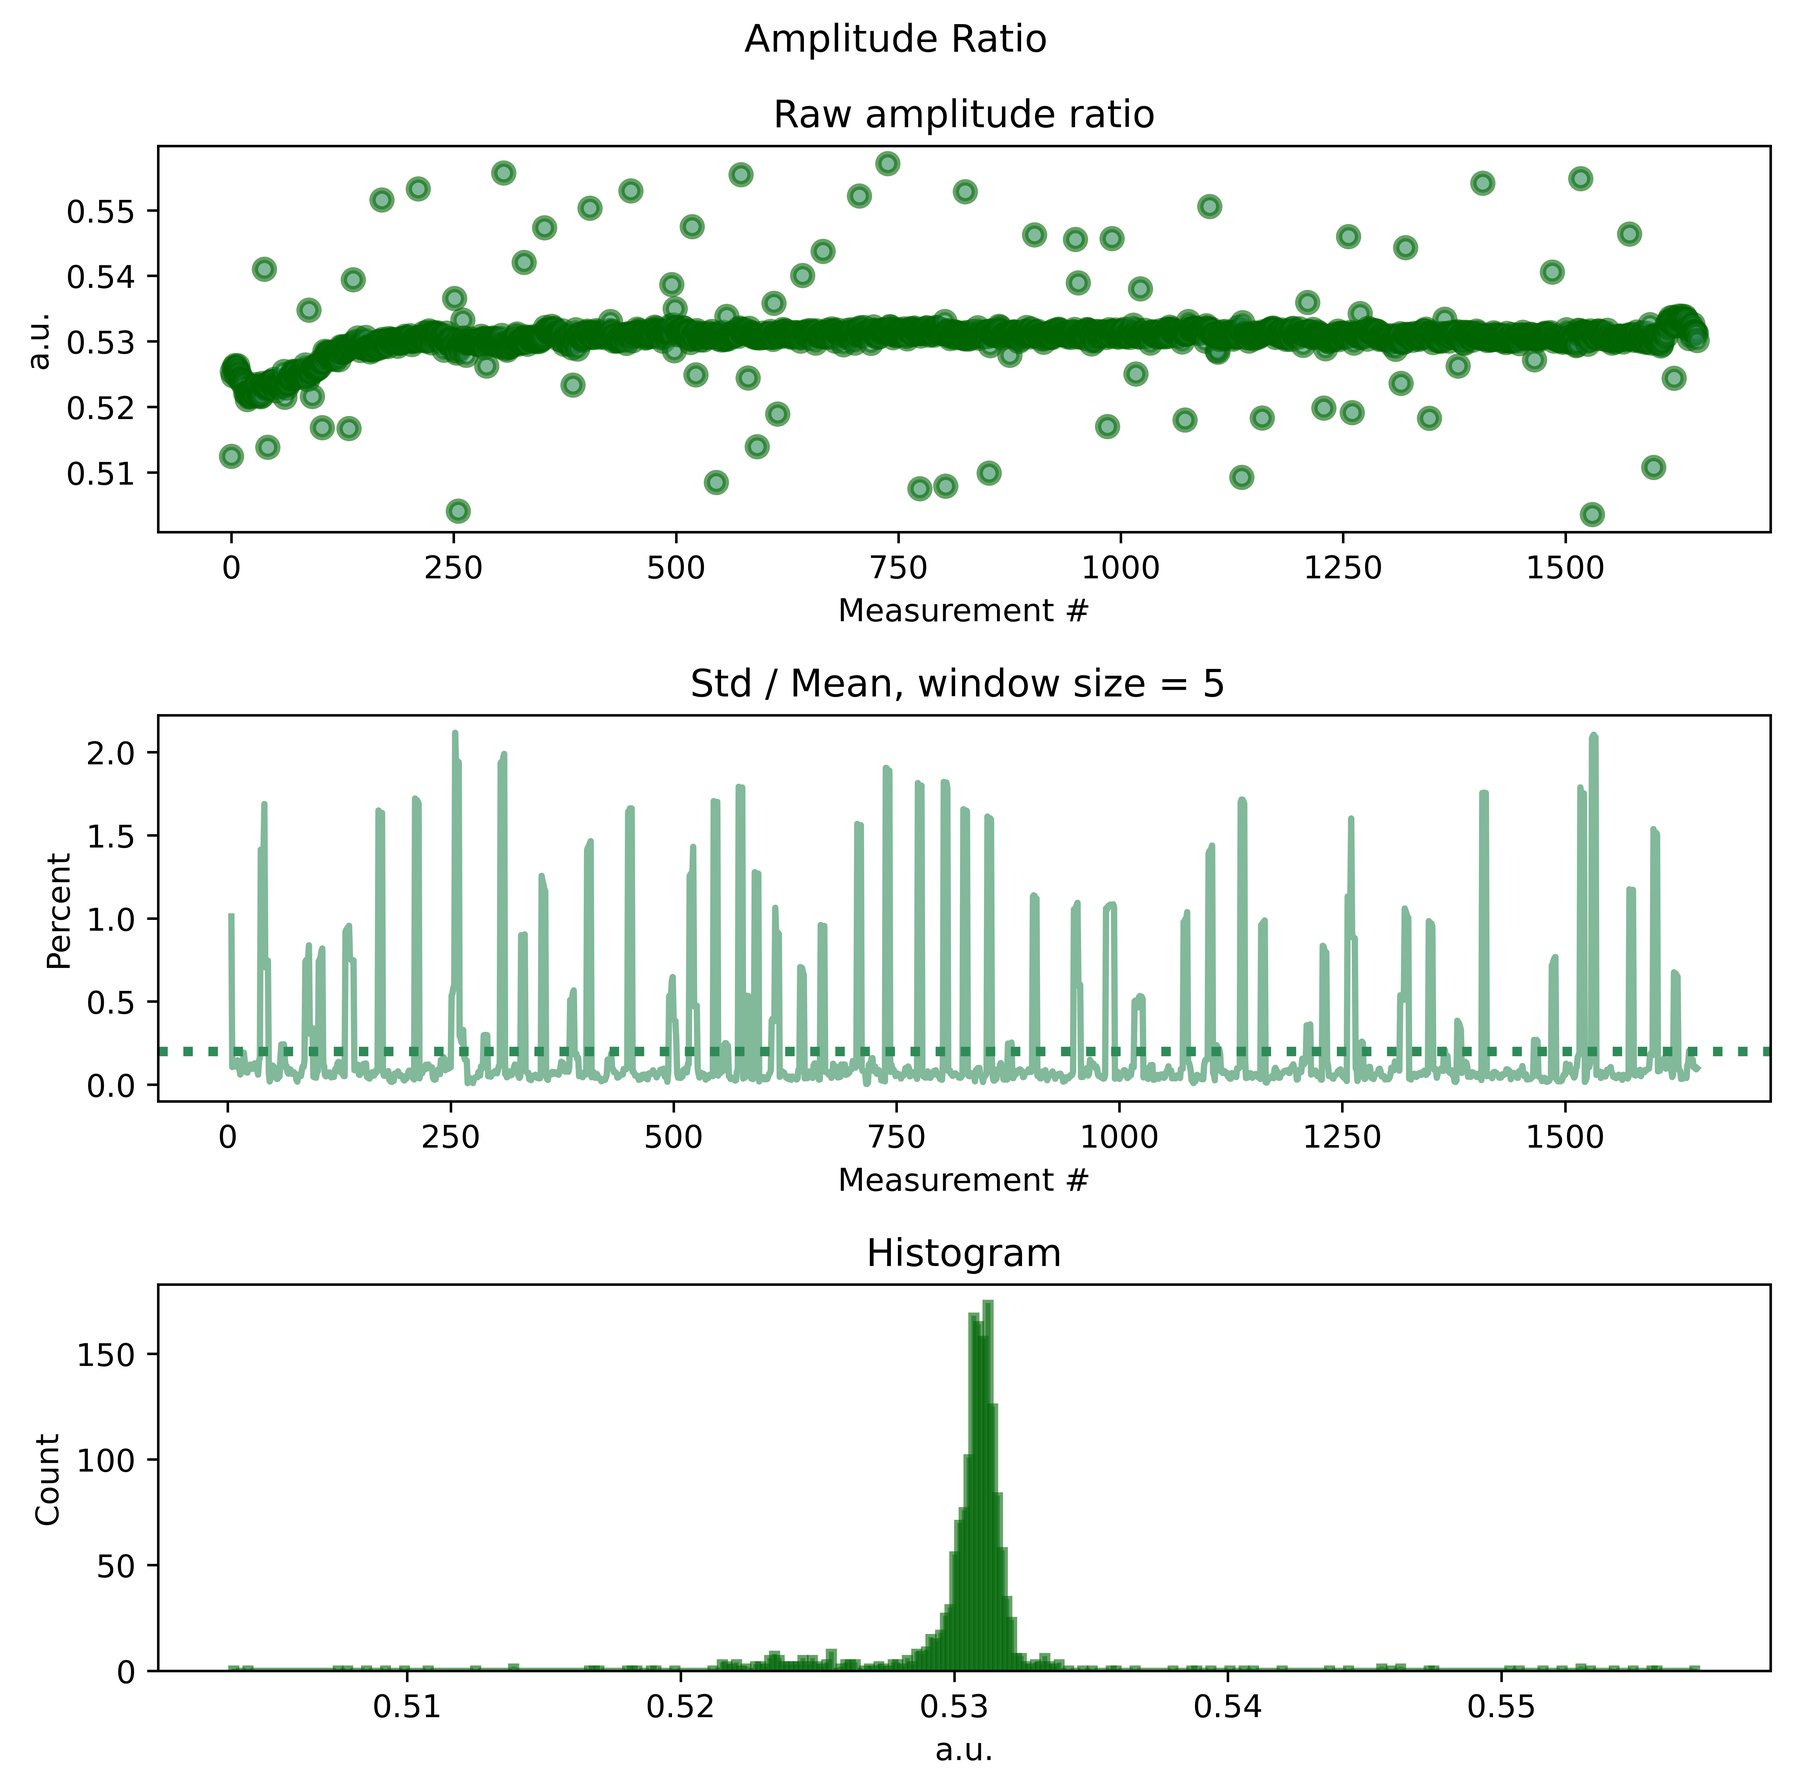
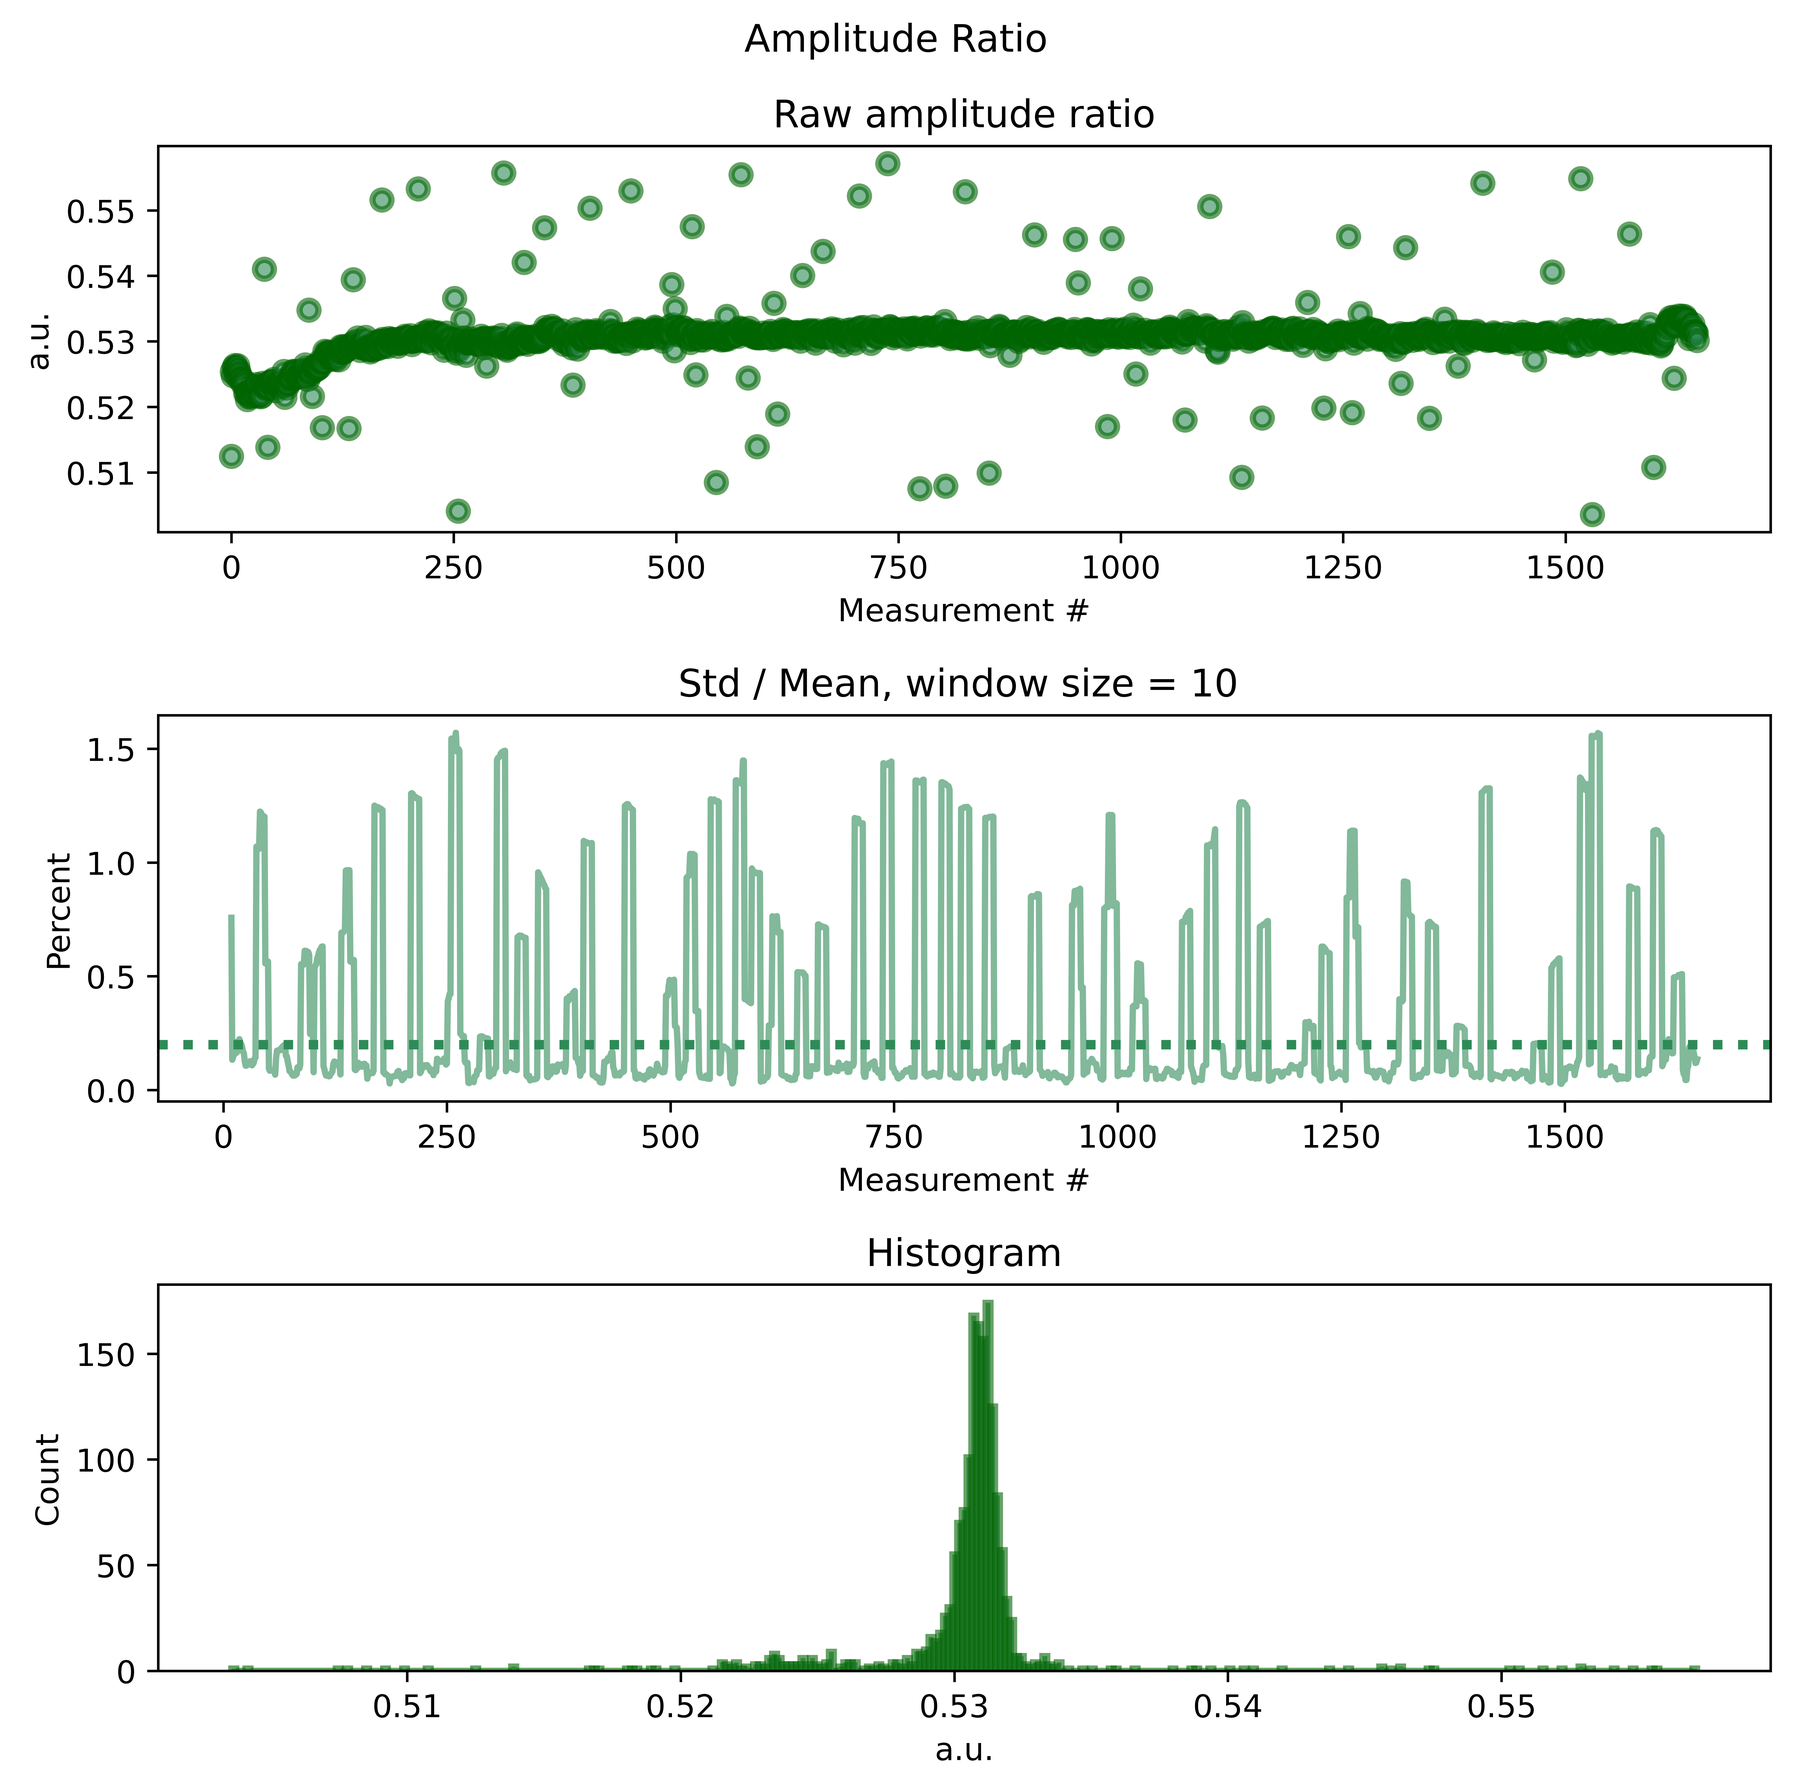
Added # TODO.

Changed region(s): [[0.1248, 0.4044, 0.9669, 0.6532], [0.3743, 0.3733, 0.6862, 0.4044]]

diff --git a/LongMeasurementStabilityPlots.py b/LongMeasurementStabilityPlots.py
@@ -1,3 +1,7 @@
+# TODO
+# Convert the plot code into functions for easy plot
+# Convert the csv reading code to something with 2D array for easy indexing
+
 import numpy as np
 import matplotlib.pyplot as plt
 import csv
@@ -20,50 +24,84 @@ def rolling_apply(fun, a, w):
     return r
 
 
-saveLoc = Path.joinpath(Path('2022-04-26'), Path('TEST-FOUR-LEDs-APD1'), Path('2'))
+saveLoc = Path.joinpath(Path('2022-04-26'), Path('TEST-FOUR-LEDs-APD1'), Path('1'))
 
 amp = Path.joinpath(saveLoc, Path('amplitude.csv'))
+amp3 = []
 amp4 = []
+amp7 = []
 amp8 = []
 with open(amp, newline='') as csv_file:
     reader = csv.reader(csv_file, delimiter=',')
     next(reader)
     for row in reader:
+        amp7.append(float(row[1])/0.2063)
         amp8.append(float(row[3])/0.2063)
+        amp3.append(float(row[5])/0.2063)
         amp4.append(float(row[7])/0.2063)
 
+amp3 = np.array(amp3)
 amp4 = np.array(amp4)
+amp7 = np.array(amp7)
 amp8 = np.array(amp8)
 
 
 pha = Path.joinpath(saveLoc, Path('phase.csv'))
+pha3 = []
 pha4 = []
+pha7 = []
 pha8 = []
 with open(pha, newline='') as csv_file:
     reader = csv.reader(csv_file, delimiter=',')
     next(reader)
     for row in reader:
+        pha7.append(float(row[1]))
         pha8.append(float(row[3]))
+        pha3.append(float(row[5]))
         pha4.append(float(row[7]))
 
+phaseDegrees3 = np.zeros_like(pha3)
 phaseDegrees4 = np.zeros_like(pha4)
+phaseDegrees7 = np.zeros_like(pha7)
 phaseDegrees8 = np.zeros_like(pha8)
+for i, amp in enumerate(amp3):
+    coefficients = 1e-3 * amp * np.array([1.6e-4, -0.043, 0.26, 208.5])
+    phaseDegrees3[i] = voltage2phase(pha3[i], coefficients)
+
 for i, amp in enumerate(amp4):
     coefficients = 1e-3 * amp * np.array([1.6e-4, -0.043, 0.26, 208.5])
     phaseDegrees4[i] = voltage2phase(pha4[i], coefficients)
+
+for i, amp in enumerate(amp7):
+    coefficients = 1e-3 * amp * np.array([1.6e-4, -0.043, 0.26, 208.5])
+    phaseDegrees7[i] = voltage2phase(pha7[i], coefficients)
 
 for i, amp in enumerate(amp8):
     coefficients = 1e-3 * amp * np.array([1.6e-4, -0.043, 0.26, 208.5])
     phaseDegrees8[i] = voltage2phase(pha8[i], coefficients)
 
+mask = [39, 71, 138, 167, 222, 254, 268]
+# mask = []
+
+amp3 = np.delete(amp3, mask)
+amp4 = np.delete(amp4, mask)
+phaseDegrees3 = np.delete(phaseDegrees3, mask)
+phaseDegrees4 = np.delete(phaseDegrees4, mask)
+
+amp7 = np.delete(amp7, mask)
+amp8 = np.delete(amp8, mask)
+phaseDegrees7 = np.delete(phaseDegrees7, mask)
+phaseDegrees8 = np.delete(phaseDegrees8, mask)
 
 windowSize = 5
 
 #   690 nm Zoomed Amplitude Plots
+amp3_movingMean = rolling_apply(np.mean, amp3, windowSize)
+amp3_movingStd = rolling_apply(np.std, amp3, windowSize)
 amp4_movingMean = rolling_apply(np.mean, amp4, windowSize)
 amp4_movingStd = rolling_apply(np.std, amp4, windowSize)
 
-fig, axes = plt.subplots(3, figsize=(8, 8), num='690 nm Amplitude')
+fig, axes = plt.subplots(4, figsize=(8, 8), num='690 nm Amplitude')
 fig.suptitle('690 nm Zoomed Amplitude')
 
 axes[0].scatter(np.arange(amp4.size), 1000 * amp4, color='darkslateblue', alpha=0.6,
@@ -72,20 +110,26 @@ axes[0].set_xlabel('Measurement #')
 axes[0].set_ylabel('Voltage(mV)')
 axes[0].set_title('Raw amplitude')
 
-axes[1].plot(100 * amp4_movingStd / amp4_movingMean, color='darkslateblue', alpha=0.6,
+axes[1].hist(1000 * amp4, bins='fd', color='darkslateblue', alpha=0.6,
+             linewidth=2, edgecolor='darkblue', label='690 nm')
+axes[1].set_xlabel('Voltage (mV)')
+axes[1].set_ylabel('Count')
+axes[1].set_title('Raw amplitude')
+
+axes[2].plot(100 * amp4_movingStd / amp4_movingMean, color='darkslateblue', alpha=0.6,
              linewidth=2, label='690nm')
-axes[1].axhline(0.2, color='darkslateblue', alpha=1.0,
+axes[2].axhline(0.2, color='darkslateblue', alpha=1.0,
                 linewidth=3, linestyle=':')
 # axes[1].set_ylim([0, 0.4])
-axes[1].set_xlabel('Measurement #')
-axes[1].set_ylabel('Percent')
-axes[1].set_title('Std / Mean, window size = {} '.format(windowSize))
+axes[2].set_xlabel('Measurement #')
+axes[2].set_ylabel('Percent')
+axes[2].set_title('Std / Mean, window size = {} '.format(windowSize))
 
-axes[2].hist(1000 * amp4, bins='fd', color='darkslateblue', alpha=0.6,
+axes[3].hist(100 * amp4_movingStd / amp4_movingMean, bins='fd', color='darkslateblue', alpha=0.6,
              linewidth=2, edgecolor='darkblue', label='690 nm')
-axes[2].set_xlabel('Voltage (mV)')
-axes[2].set_ylabel('Count')
-axes[2].set_title('Raw amplitude')
+axes[3].set_xlabel('Noise / Signal (%)')
+axes[3].set_ylabel('Count')
+axes[3].set_title('Window size = {}'.format(windowSize))
 
 fig.tight_layout()
 fig.savefig(Path.joinpath(saveLoc, Path('690 nm Amplitude')), bbox_inches='tight', dpi=800)
@@ -120,10 +164,12 @@ fig.savefig(Path.joinpath(saveLoc, Path('690 nm Zoomed Amplitude')), bbox_inches
 
 
 #   690 nm Phase Plots
+pha3_movingMean = rolling_apply(np.mean, phaseDegrees3, windowSize)
+pha3_movingStd = rolling_apply(np.std, phaseDegrees3, windowSize)
 pha4_movingMean = rolling_apply(np.mean, phaseDegrees4, windowSize)
 pha4_movingStd = rolling_apply(np.std, phaseDegrees4, windowSize)
 
-fig, axes = plt.subplots(3, figsize=(8, 8), num='690 nm Phase')
+fig, axes = plt.subplots(4, figsize=(8, 8), num='690 nm Phase')
 fig.suptitle('690 nm Phase')
 
 axes[0].scatter(np.arange(phaseDegrees4.size), phaseDegrees4, color='darkslateblue', alpha=0.6,
@@ -132,38 +178,46 @@ axes[0].set_xlabel('Measurement #')
 axes[0].set_ylabel('Degrees(°)')
 axes[0].set_title('Raw phase')
 
-axes[1].plot(pha4_movingStd, color='darkslateblue', alpha=0.6,
-             linewidth=2, label='690nm')
-axes[1].axhline(0.2, color='darkslateblue', alpha=1.0,
-                linewidth=3, linestyle=':')
-axes[1].set_xlabel('Measurement #')
-axes[1].set_ylabel('Degrees(°)')
-axes[1].set_title('Std, window size = {} '.format(windowSize))
-
-axes[2].hist(phaseDegrees4, bins='fd', color='darkslateblue', alpha=0.6,
+axes[1].hist(phaseDegrees4, bins='fd', color='darkslateblue', alpha=0.6,
              linewidth=2, edgecolor='darkblue', label='690 nm')
-axes[2].set_xlabel('Degrees(°)')
-axes[2].set_ylabel('Count')
-axes[2].set_title('Raw phase')
+axes[1].set_xlabel('Degrees(°)')
+axes[1].set_ylabel('Count')
+axes[1].set_title('Raw phase')
+
+axes[2].plot(pha4_movingStd, color='darkslateblue', alpha=0.6,
+             linewidth=2, label='690nm')
+axes[2].axhline(0.2, color='darkslateblue', alpha=1.0,
+                linewidth=3, linestyle=':')
+axes[2].set_xlabel('Measurement #')
+axes[2].set_ylabel('Degrees(°)')
+axes[2].set_title('Std, window size = {} '.format(windowSize))
+
+axes[3].hist(pha4_movingStd, bins='fd', color='darkslateblue', alpha=0.6,
+             linewidth=2, edgecolor='darkblue', label='690 nm')
+axes[3].set_xlabel('Degrees(°)')
+axes[3].set_ylabel('Count')
+axes[3].set_title('Raw phase')
 
 fig.tight_layout()
 fig.savefig(Path.joinpath(saveLoc, Path('690 nm Phase')), bbox_inches='tight', dpi=800)
 
 
 #   830 nm Amplitude Plots
+amp7_movingMean = rolling_apply(np.mean, amp7, windowSize)
+amp7_movingStd = rolling_apply(np.std, amp7, windowSize)
 amp8_movingMean = rolling_apply(np.mean, amp8, windowSize)
 amp8_movingStd = rolling_apply(np.std, amp8, windowSize)
 
 fig, axes = plt.subplots(3, figsize=(8, 8), num='830 nm Amplitude')
 fig.suptitle('830 nm Amplitude')
 
-axes[0].scatter(np.arange(amp8.size), 1000 * amp8, color='brown', alpha=0.6,
+axes[0].scatter(np.arange(amp7.size), 1000 * amp7, color='brown', alpha=0.6,
                 linewidth=2, edgecolors='darkred', label='830nm')
 axes[0].set_xlabel('Measurement #')
 axes[0].set_ylabel('Voltage(mV)')
 axes[0].set_title('Raw amplitude')
 
-axes[1].plot(100 * amp8_movingStd / amp8_movingMean, color='brown', alpha=0.6,
+axes[1].plot(100 * amp7_movingStd / amp7_movingMean, color='brown', alpha=0.6,
              linewidth=2, label='830nm')
 axes[1].axhline(0.2, color='brown', alpha=1.0,
                 linewidth=3, linestyle=':')
@@ -171,7 +225,7 @@ axes[1].set_xlabel('Measurement #')
 axes[1].set_ylabel('Percent')
 axes[1].set_title('Std / Mean, window size = {} '.format(windowSize))
 
-axes[2].hist(1000 * amp8, bins='fd', color='brown', alpha=0.6,
+axes[2].hist(1000 * amp7, bins='fd', color='brown', alpha=0.6,
              linewidth=2, edgecolor='darkred', label='830 nm')
 axes[2].set_xlabel('Voltage (mV)')
 axes[2].set_ylabel('Count')
@@ -182,19 +236,21 @@ fig.savefig(Path.joinpath(saveLoc, Path('830 nm Amplitude')), bbox_inches='tight
 
 
 #   830 nm Zoomed Amplitude Plots
+amp7_movingMean = rolling_apply(np.mean, amp7, windowSize)
+amp7_movingStd = rolling_apply(np.std, amp7, windowSize)
 amp8_movingMean = rolling_apply(np.mean, amp8, windowSize)
 amp8_movingStd = rolling_apply(np.std, amp8, windowSize)
 
 fig, axes = plt.subplots(3, figsize=(8, 8), num='830 nm Zoomed Amplitude')
 fig.suptitle('830 nm Amplitude')
 
-axes[0].scatter(np.arange(amp8.size), 1000 * amp8, color='brown', alpha=0.6,
+axes[0].scatter(np.arange(amp7.size), 1000 * amp7, color='brown', alpha=0.6,
                 linewidth=2, edgecolors='darkred', label='830nm')
 axes[0].set_xlabel('Measurement #')
 axes[0].set_ylabel('Voltage(mV)')
 axes[0].set_title('Raw amplitude')
 
-axes[1].plot(100 * amp8_movingStd / amp8_movingMean, color='brown', alpha=0.6,
+axes[1].plot(100 * amp7_movingStd / amp7_movingMean, color='brown', alpha=0.6,
              linewidth=2, label='830nm')
 axes[1].axhline(0.2, color='brown', alpha=1.0,
                 linewidth=3, linestyle=':')
@@ -203,7 +259,7 @@ axes[1].set_xlabel('Measurement #')
 axes[1].set_ylabel('Percent')
 axes[1].set_title('Std / Mean, window size = {} '.format(windowSize))
 
-axes[2].hist(1000 * amp8, bins='fd', color='brown', alpha=0.6,
+axes[2].hist(1000 * amp7, bins='fd', color='brown', alpha=0.6,
              linewidth=2, edgecolor='darkred', label='830 nm')
 axes[2].set_xlabel('Voltage (mV)')
 axes[2].set_ylabel('Count')
@@ -244,66 +300,66 @@ fig.tight_layout()
 fig.savefig(Path.joinpath(saveLoc, Path('830 nm Phase')), bbox_inches='tight', dpi=800)
 
 
-#   Amplitude Ratio
-ampRatio_movingMean = rolling_apply(np.mean, amp4 / amp8, windowSize)
-ampRatio_movingStd = rolling_apply(np.std, amp4 / amp8, windowSize)
-
-fig, axes = plt.subplots(3, figsize=(8, 8), num='Amplitude Ratio')
-fig.suptitle('Amplitude Ratio')
-
-axes[0].scatter(np.arange(amp8.size), amp4 / amp8, color='seagreen', alpha=0.6,
-                linewidth=2, edgecolors='darkgreen', label='830nm')
-axes[0].set_xlabel('Measurement #')
-axes[0].set_ylabel('a.u.')
-axes[0].set_title('Raw amplitude ratio')
-
-axes[1].plot(100 * ampRatio_movingStd / ampRatio_movingMean, color='seagreen', alpha=0.6,
-             linewidth=2, label='830nm')
-axes[1].axhline(0.2, color='seagreen', alpha=1.0,
-                linewidth=3, linestyle=':')
-axes[1].set_xlabel('Measurement #')
-axes[1].set_ylabel('Percent')
-axes[1].set_title('Std / Mean, window size = {} '.format(windowSize))
-
-axes[2].hist(amp4 / amp8, bins='fd', color='seagreen', alpha=0.6,
-             linewidth=2, edgecolor='darkgreen', label='830 nm')
-axes[2].set_xlabel('a.u.')
-axes[2].set_ylabel('Count')
-axes[2].set_title('Histogram')
-
-fig.tight_layout()
-fig.savefig(Path.joinpath(saveLoc, Path('Amplitude Ratio')), bbox_inches='tight', dpi=800)
-
-
-# Phase Differences
-phaDiff_movingMean = rolling_apply(np.mean, phaseDegrees4 - phaseDegrees8, windowSize)
-phaDiff_movingStd = rolling_apply(np.std, phaseDegrees4 - phaseDegrees8, windowSize)
-
-fig, axes = plt.subplots(3, figsize=(8, 8), num='Phase Difference')
-fig.suptitle('Phase Difference')
-
-axes[0].scatter(np.arange(amp8.size), phaseDegrees4 - phaseDegrees8, color='seagreen', alpha=0.6,
-                linewidth=2, edgecolors='darkgreen', label='830nm')
-axes[0].set_xlabel('Measurement #')
-axes[0].set_ylabel('Degrees (°)')
-axes[0].set_title('Raw Phase Difference')
-
-axes[1].plot(phaDiff_movingStd, color='seagreen', alpha=0.6,
-             linewidth=2, label='830nm')
-axes[1].axhline(0.2, color='seagreen', alpha=1.0,
-                linewidth=3, linestyle=':')
-axes[1].set_xlabel('Measurement #')
-axes[1].set_ylabel('Degrees (°)')
-axes[1].set_title('Std, window size = {} '.format(windowSize))
-
-axes[2].hist(phaseDegrees4 - phaseDegrees8, bins='fd', color='seagreen', alpha=0.6,
-             linewidth=2, edgecolor='darkgreen', label='830 nm')
-axes[2].set_xlabel('Degrees (°)')
-axes[2].set_ylabel('Count')
-axes[2].set_title('Histogram')
-
-fig.tight_layout()
-fig.savefig(Path.joinpath(saveLoc, Path('Phase Difference')), bbox_inches='tight', dpi=800)
+# #   Amplitude Ratio
+# ampRatio_movingMean = rolling_apply(np.mean, amp4 / amp8, windowSize)
+# ampRatio_movingStd = rolling_apply(np.std, amp4 / amp8, windowSize)
+#
+# fig, axes = plt.subplots(3, figsize=(8, 8), num='Amplitude Ratio')
+# fig.suptitle('Amplitude Ratio')
+#
+# axes[0].scatter(np.arange(amp8.size), amp4 / amp8, color='seagreen', alpha=0.6,
+#                 linewidth=2, edgecolors='darkgreen', label='830nm')
+# axes[0].set_xlabel('Measurement #')
+# axes[0].set_ylabel('a.u.')
+# axes[0].set_title('Raw amplitude ratio')
+#
+# axes[1].plot(100 * ampRatio_movingStd / ampRatio_movingMean, color='seagreen', alpha=0.6,
+#              linewidth=2, label='830nm')
+# axes[1].axhline(0.2, color='seagreen', alpha=1.0,
+#                 linewidth=3, linestyle=':')
+# axes[1].set_xlabel('Measurement #')
+# axes[1].set_ylabel('Percent')
+# axes[1].set_title('Std / Mean, window size = {} '.format(windowSize))
+#
+# axes[2].hist(amp4 / amp8, bins='fd', color='seagreen', alpha=0.6,
+#              linewidth=2, edgecolor='darkgreen', label='830 nm')
+# axes[2].set_xlabel('a.u.')
+# axes[2].set_ylabel('Count')
+# axes[2].set_title('Histogram')
+#
+# fig.tight_layout()
+# fig.savefig(Path.joinpath(saveLoc, Path('Amplitude Ratio')), bbox_inches='tight', dpi=800)
+#
+#
+# # Phase Differences
+# phaDiff_movingMean = rolling_apply(np.mean, phaseDegrees4 - phaseDegrees8, windowSize)
+# phaDiff_movingStd = rolling_apply(np.std, phaseDegrees4 - phaseDegrees8, windowSize)
+#
+# fig, axes = plt.subplots(3, figsize=(8, 8), num='Phase Difference')
+# fig.suptitle('Phase Difference')
+#
+# axes[0].scatter(np.arange(amp8.size), phaseDegrees4 - phaseDegrees8, color='seagreen', alpha=0.6,
+#                 linewidth=2, edgecolors='darkgreen', label='830nm')
+# axes[0].set_xlabel('Measurement #')
+# axes[0].set_ylabel('Degrees (°)')
+# axes[0].set_title('Raw Phase Difference')
+#
+# axes[1].plot(phaDiff_movingStd, color='seagreen', alpha=0.6,
+#              linewidth=2, label='830nm')
+# axes[1].axhline(0.2, color='seagreen', alpha=1.0,
+#                 linewidth=3, linestyle=':')
+# axes[1].set_xlabel('Measurement #')
+# axes[1].set_ylabel('Degrees (°)')
+# axes[1].set_title('Std, window size = {} '.format(windowSize))
+#
+# axes[2].hist(phaseDegrees4 - phaseDegrees8, bins='fd', color='seagreen', alpha=0.6,
+#              linewidth=2, edgecolor='darkgreen', label='830 nm')
+# axes[2].set_xlabel('Degrees (°)')
+# axes[2].set_ylabel('Count')
+# axes[2].set_title('Histogram')
+#
+# fig.tight_layout()
+# fig.savefig(Path.joinpath(saveLoc, Path('Phase Difference')), bbox_inches='tight', dpi=800)
 
 
 plt.show()
